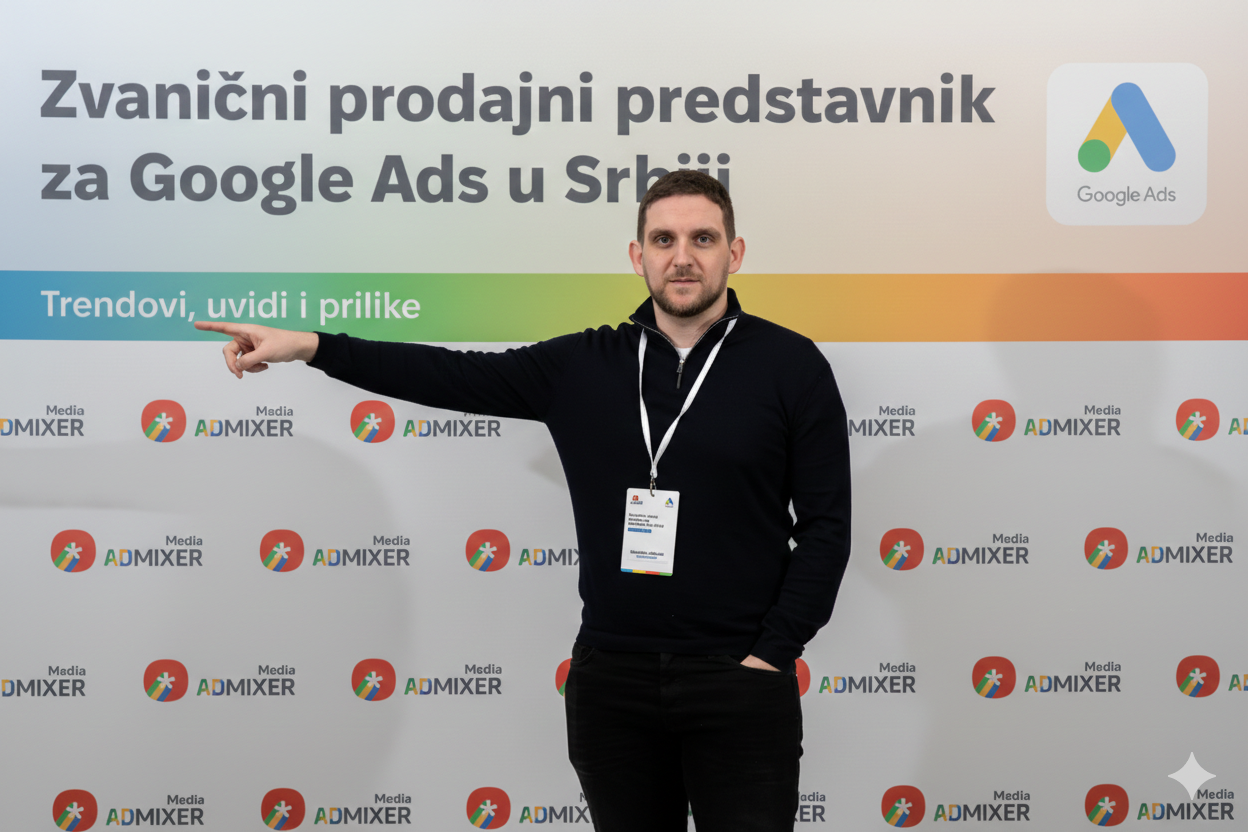
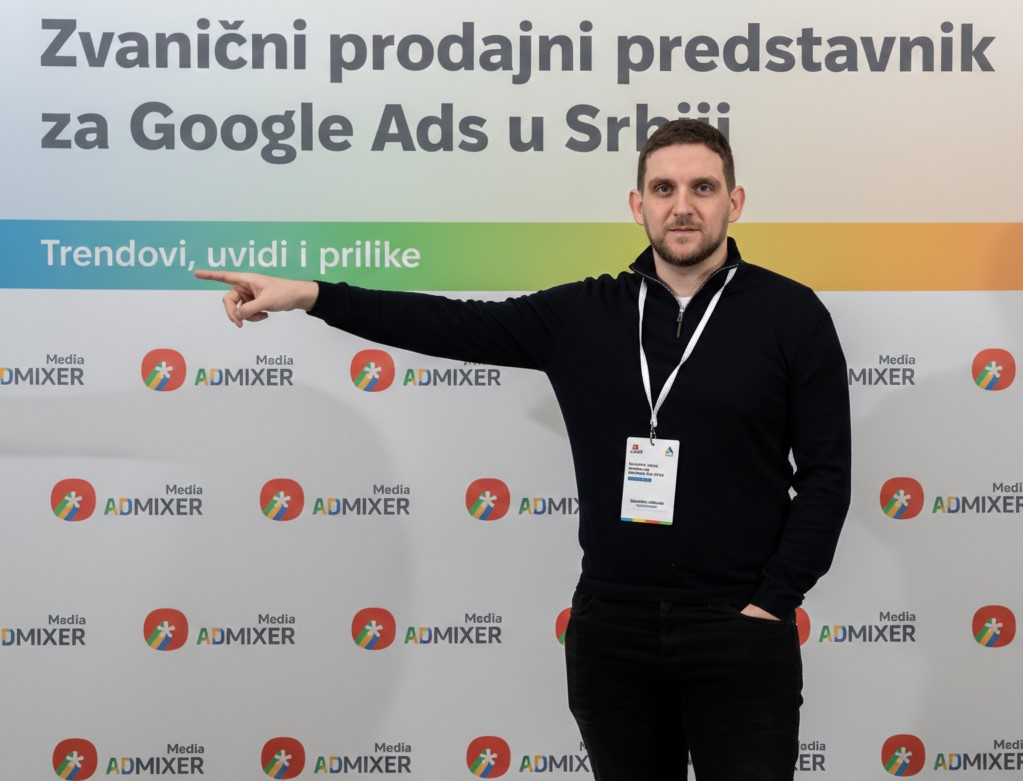
Fit hero image within container

diff --git a/src/components/sections/Hero.tsx b/src/components/sections/Hero.tsx
@@ -60,7 +60,7 @@ export function Hero({
                 src="/hero.webp"
                 alt="Slobodan Jelisavac"
                 fill
-                className="object-cover object-[15%_center] origin-left scale-[0.97]"
+                className="object-contain"
                 priority
               />
             </div>
